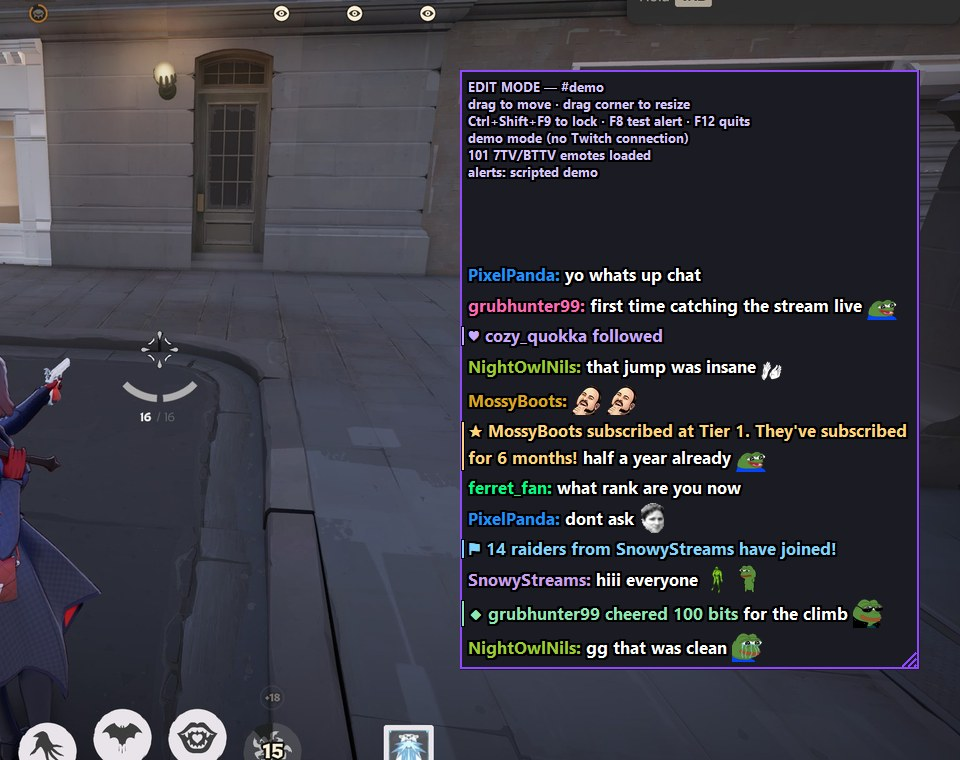
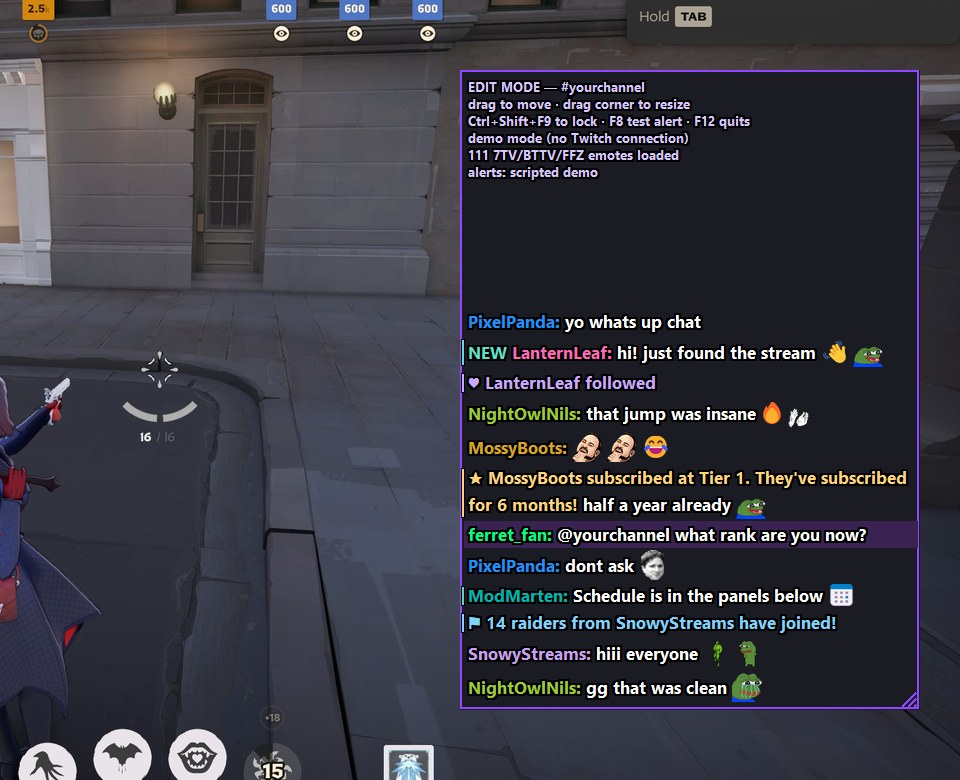
Show mod announcements, color emoji, and highlight first chatters and mentions
- /announce messages were dropped. They arrive as USERNOTICE, and now show
  as normal messages with an accent bar in the announcement's color.
- Emoji are drawn in color from the Windows emoji font. Combined emoji
  (families, flags) fall back to Tk's white glyphs, since Pillow can't
  shape them without raqm. This also removes the old "□" replacement,
  which Tk 8.6.15 doesn't need.
- A NEW label and accent bar mark someone's first message in the channel.
- A tinted box marks messages containing the channel name, or any word in
  the new `mention_words` setting.

Each feature has its own setting in config.json.

diff --git a/overlay.py b/overlay.py
@@ -33,6 +33,7 @@ import time
 import tkinter as tk
 import urllib.request
 from concurrent.futures import ThreadPoolExecutor
+from functools import lru_cache
 from ctypes import wintypes
 from pathlib import Path
 from tkinter import font as tkfont
@@ -60,6 +61,10 @@ DEFAULTS = {
     "hide_users": ["nightbot", "streamelements", "streamlabs", "moobot", "fossabot"],
     "emotes": True,
     "emote_providers": {"7tv": True, "bttv": True, "ffz": True},
+    "emoji": True,             # draw emoji in color (off = plain white emoji)
+    "highlight_first_messages": True,  # mark someone's first ever message in the channel
+    "highlight_mentions": True,        # box messages that mention the channel name
+    "mention_words": [],               # extra words that count as a mention, e.g. a nickname
     "emote_height": 0,         # px; 0 = scale with font size
     "emote_refresh_minutes": 15,
     "alerts": True,
@@ -73,6 +78,15 @@ RUNTIME_KEYS = {"channel", "_demo"}  # lives in .env, never written to config.js
 
 KEY_COLOR = "#010101"  # rendered fully transparent; near-black so text edges blend into a dark outline
 EDIT_BG = "#1b1b24"
+MENTION_BG = "#3a2352"
+FIRST_MSG_COLOR = "#5ce1c6"
+ANNOUNCE_COLORS = {"PRIMARY": "#bf94ff", "BLUE": "#5cb8ff", "GREEN": "#4fe0a0",
+                   "ORANGE": "#ffb347", "PURPLE": "#c38bff"}
+# one emoji: optional variation selector / skin tone, optionally joined (ZWJ) to more; or a flag pair
+EMOJI_RE = re.compile(
+    "[\U0001F1E6-\U0001F1FF]{2}"
+    "|[\u2300-\u23FF\u2600-\u27BF\u2B00-\u2BFF\U0001F000-\U0001FAFF][\uFE0F\U0001F3FB-\U0001F3FF]*"
+    "(?:\u200D[\u2600-\u27BF\U0001F000-\U0001FAFF][\uFE0F\U0001F3FB-\U0001F3FF]*)*")
 TWITCH_DEFAULT_COLORS = [
     "#FF0000", "#0000FF", "#00FF00", "#B22222", "#FF7F50", "#9ACD32", "#FF4500",
     "#2E8B57", "#DAA520", "#D2691E", "#5F9EA0", "#1E90FF", "#FF69B4", "#8A2BE2", "#00FF7F",
@@ -288,6 +302,52 @@ def load_emote_frames(spec: dict, height: int):
     return frames, durations
 
 
+@lru_cache(maxsize=1)
+def emoji_font():
+    from PIL import ImageFont
+    try:
+        return ImageFont.truetype("seguiemj.ttf", 64)  # Segoe UI Emoji, ships with Windows 10/11
+    except OSError:
+        return None
+
+
+def render_emoji(ch: str, height: int):
+    """Color emoji as an RGBA image, or None (then Tk draws it as plain white text)."""
+    from PIL import ImageDraw
+    font = emoji_font()
+    if font is None:
+        return None
+    im = Image.new("RGBA", (160, 110))
+    ImageDraw.Draw(im).text((8, 8), ch, font=font, embedded_color=True)
+    box = im.getbbox()
+    if not box:
+        return None
+    im = im.crop(box)
+    im = im.resize((max(1, round(im.width * height / im.height)), height), Image.LANCZOS)
+    padded = Image.new("RGBA", (im.width + 4, height))  # tight crop would touch neighbouring words
+    padded.paste(im, (2, 0))
+    return padded
+
+
+def split_emoji(word: str):
+    """'lol😂😂' -> ['lol', <emoji spec>, <emoji spec>]. Joined emoji and flags stay text:
+    Pillow can't shape those here, but Tk draws them fine in white."""
+    parts, pos = [], 0
+    for m in EMOJI_RE.finditer(word):
+        cluster = m.group()
+        if "\u200d" in cluster or "\U0001F1E6" <= cluster[0] <= "\U0001F1FF":
+            continue
+        if m.start() > pos:
+            parts.append(word[pos:m.start()])
+        base = "".join(c for c in cluster if c != "\ufe0f" and not "\U0001F3FB" <= c <= "\U0001F3FF")
+        parts.append({"key": "emoji_" + "-".join(f"{ord(c):x}" for c in base), "emoji": base,
+                      "name": cluster, "zero_width": False})
+        pos = m.end()
+    if pos < len(word):
+        parts.append(word[pos:])
+    return parts
+
+
 # --- Overlay -------------------------------------------------------------
 
 def readable(color: str) -> str:
@@ -298,11 +358,6 @@ def readable(color: str) -> str:
         f = 0.55
         r, g, b = (int(c + (255 - c) * f) for c in (r, g, b))
     return f"#{r:02x}{g:02x}{b:02x}"
-
-
-def safe_text(s: str) -> str:
-    # Tk 8.6 cannot always render characters outside the BMP (most emoji)
-    return "".join(c if ord(c) <= 0xFFFF else "□" for c in s)
 
 
 class Overlay:
@@ -340,6 +395,7 @@ class Overlay:
         self.text_h = self.font.metrics("linespace")
         self.space_w = self.font.measure(" ")
         self.emote_h = cfg["emote_height"] or round(self.text_h * 1.3)
+        self.emoji_h = round(self.text_h * 0.95)
         self.canvas = tk.Canvas(self.root, bg=KEY_COLOR, highlightthickness=0, bd=0)
         self.canvas.pack(fill="both", expand=True)
         self.canvas.bind("<Configure>", lambda e: self.render())
@@ -398,7 +454,9 @@ class Overlay:
                     else:
                         changed |= self.add_chat(data)
                 elif kind == "usernotice":
-                    if self.cfg["alerts"]:
+                    if data["tags"].get("msg-id") == "announcement":  # /announce by a mod: a normal message
+                        changed |= self.add_chat(data, announce=data["tags"].get("msg-param-color", "PRIMARY"))
+                    elif self.cfg["alerts"]:
                         changed |= self.add_alert(self.irc_alerts.from_usernotice(data), data)
                 elif kind == "alert":
                     changed |= self.add_alert(data)
@@ -425,7 +483,7 @@ class Overlay:
                     key, frames, durs = data
                     self.emote_pending.discard(key)
                     self.emote_images[key] = {"frames": [ImageTk.PhotoImage(f) for f in frames], "durs": durs,
-                                              "total": sum(durs), "w": frames[0].width}
+                                              "total": sum(durs), "w": frames[0].width, "h": frames[0].height}
                     changed = True
                 elif kind == "emote_fail":
                     self.emote_pending.discard(data)
@@ -453,6 +511,14 @@ class Overlay:
         key = spec["key"]
         if key in self.emote_images or key in self.emote_pending or key in self.emote_failed:
             return
+        if "emoji" in spec:  # drawn locally from the Windows emoji font: instant, no download
+            img = render_emoji(spec["emoji"], self.emoji_h)
+            if img is None:
+                self.emote_failed.add(key)
+            else:
+                self.emote_images[key] = {"frames": [ImageTk.PhotoImage(img)], "durs": [100], "total": 100,
+                                          "w": img.width, "h": img.height}
+            return
         self.emote_pending.add(key)
 
         def work():
@@ -463,9 +529,9 @@ class Overlay:
                 self.events.put(("emote_fail", key))
         self.pool.submit(work)
 
-    def add_chat(self, msg) -> bool:
+    def add_chat(self, msg, announce=None) -> bool:
         tags = msg["tags"]
-        login = msg["prefix"].split("!", 1)[0]
+        login = tags.get("login") or msg["prefix"].split("!", 1)[0]  # USERNOTICE has no user prefix
         text = msg["trailing"] or ""
         if login.lower() in {u.lower() for u in self.cfg["hide_users"]}:
             return False
@@ -490,9 +556,20 @@ class Overlay:
             "color": readable(color), "text": text, "action": action, "time": time.time(),
             "twitch_emotes": self.parse_twitch_emotes(tags.get("emotes", ""), len(text)),
             "tokens": None, "tokens_ver": -1,
+            "first": self.cfg["highlight_first_messages"] and tags.get("first-msg") == "1",
+            "mention": self.cfg["highlight_mentions"] and self.is_mention(login, text),
+            "accent": ANNOUNCE_COLORS.get(announce, ANNOUNCE_COLORS["PRIMARY"]) if announce else
+                      (FIRST_MSG_COLOR if self.cfg["highlight_first_messages"] and tags.get("first-msg") == "1" else None),
         })
         del self.messages[:-self.cfg["max_messages"]]
         return True
+
+    def is_mention(self, login, text) -> bool:
+        channel = self.cfg["channel"].lower()
+        if login.lower() == channel:  # your own messages
+            return False
+        triggers = {channel} | {w.lower().lstrip("@") for w in self.cfg["mention_words"]}
+        return any(w in triggers for w in re.findall(r"\w+", text.lower()))
 
     @staticmethod
     def parse_twitch_emotes(tag: str, text_len: int):
@@ -515,7 +592,7 @@ class Overlay:
         self.messages.append({
             "id": irc_msg["tags"].get("id") if irc_msg else None, "login": "", "name": "",
             "color": color, "text": text, "action": False, "time": time.time(),
-            "alert": f"{icon} {alert['text']}", "ttl": self.cfg["alert_fade_seconds"],
+            "alert": f"{icon} {alert['text']}", "ttl": self.cfg["alert_fade_seconds"], "accent": color,
             "twitch_emotes": self.parse_twitch_emotes(emote_tag, len(text)) if emote_tag else [],
             "tokens": None, "tokens_ver": -1,
         })
@@ -599,6 +676,9 @@ class Overlay:
             tokens = [("text", w, m["color"], i > 0) for i, w in enumerate(m["alert"].split())]
         else:
             tokens = [("text", m["name"] + ("" if m["action"] else ":"), m["color"], False)]
+            if m.get("first"):
+                tokens.insert(0, ("text", "NEW", FIRST_MSG_COLOR, False))
+                tokens[1] = tokens[1][:3] + (True,)
         text = m["text"]
         segments, pos = [], 0   # split text around Twitch-native emote ranges
         for a, b, eid in m["twitch_emotes"]:
@@ -618,6 +698,10 @@ class Overlay:
                 spec = self.third_party.get(word) if self.cfg["emotes"] else None
                 if spec:
                     tokens.append(("emote", spec, True))
+                elif self.cfg["emoji"] and EMOJI_RE.search(word):
+                    for i, part in enumerate(split_emoji(word)):
+                        tokens.append(("emote", part, i == 0) if isinstance(part, dict)
+                                      else ("text", part, body_color, i == 0))
                 else:
                     tokens.append(("text", word, body_color, True))
         m["tokens"], m["tokens_ver"] = tokens, self.emote_version
@@ -637,9 +721,10 @@ class Overlay:
         for tok in self.tokenize(m):
             if tok[0] == "emote":
                 spec = tok[1]
-                img = self.emote_images.get(spec["key"]) if self.cfg["emotes"] else None
-                if img is None and self.cfg["emotes"]:
+                img = self.emote_images.get(spec["key"]) if self.cfg["emotes"] or "emoji" in spec else None
+                if img is None and (self.cfg["emotes"] or "emoji" in spec):
                     self.request_emote(spec)
+                    img = self.emote_images.get(spec["key"])  # emoji render instantly
                 if img is not None:
                     if spec["zero_width"] and prev_emote is not None and prev_emote in cur:
                         cur.append({"t": "emote", "key": spec["key"], "img": img,
@@ -655,10 +740,9 @@ class Overlay:
                     x += sp + img["w"]
                     continue
                 # not loaded (yet) or failed: fall back to its name as text
-                tok = ("text", spec_name(tok[1], m), "#bbbbbb", tok[2])
+                tok = ("text", spec_name(tok[1], m), "#ffffff" if "emoji" in spec else "#bbbbbb", tok[2])
             _, word, color, space_before = tok
             prev_emote = None
-            word = safe_text(word)
             while word:
                 sp = self.space_w if space_before and x else 0
                 w = self.font.measure(word)
@@ -680,7 +764,7 @@ class Overlay:
         newline()
         out, total = [], 0
         for line in lines:
-            lh = max([self.text_h] + [self.emote_h for a in line if a["t"] == "emote"])
+            lh = max([self.text_h] + [a["img"]["h"] for a in line if a["t"] == "emote"])
             out.append((lh, line))
             total += lh
         return out, total
@@ -753,9 +837,11 @@ class Overlay:
             y -= mh
             if y < top_limit:
                 break
+            if m.get("mention"):
+                c.create_rectangle(pad - 4, y - 2, w - 2, y + mh + 2, fill=MENTION_BG, outline="")
             self.draw_message(lines, y, pad)
-            if m.get("alert"):
-                c.create_rectangle(1, y + 2, 4, y + mh - 2, fill=m["color"], outline="#000000")
+            if m.get("accent"):
+                c.create_rectangle(1, y + 2, 4, y + mh - 2, fill=m["accent"], outline="#000000")
             y -= self.cfg["message_gap"]
 
     def animate(self):
@@ -906,7 +992,7 @@ def main():
         return
     if "--demo" in args:  # README screenshots: scripted chat, runs alongside a real copy
         cfg = load_config()
-        cfg.update(channel="demo", alert_sound=False, _demo="alerts" if "--alerts" in args else "chat")
+        cfg.update(channel="yourchannel", alert_sound=False, _demo="alerts" if "--alerts" in args else "chat")
         if "--geometry" in args:  # WxH+X+Y
             w, h, x, y = map(int, re.match(r"(\d+)x(\d+)\+(-?\d+)\+(-?\d+)", args[args.index("--geometry") + 1]).groups())
             cfg.update(width=w, height=h, x=x, y=y)

diff --git a/demo.py b/demo.py
@@ -1,4 +1,4 @@
-"""Scripted chat for README screenshots: fake viewers, real global emotes, every alert type.
+"""Scripted chat for README screenshots: fake viewers, real global emotes, emoji, every highlight and alert type.
 
     python overlay.py --demo            (add --edit to start in edit mode)
 
@@ -11,19 +11,19 @@ import time
 TWITCH = {"Kappa": "25", "LUL": "425618", "<3": "555555584"}
 
 SCRIPT = [
-    # (delay, kind, payload)
+    # (delay, kind, payload); chat payload = (name, color, text[, extra tags])
     (0.2, "chat", ("PixelPanda", "#1E90FF", "yo whats up chat")),
-    (0.3, "chat", ("grubhunter99", "#FF69B4", "first time catching the stream live peepoHappy")),
-    (0.3, "alert", {"kind": "follow", "text": "cozy_quokka followed", "message": ""}),
-    (0.3, "chat", ("NightOwlNils", "#9ACD32", "that jump was insane Clap")),
-    (0.3, "chat", ("MossyBoots", "#DAA520", "LUL LUL")),
+    (0.3, "chat", ("LanternLeaf", "#FF69B4", "hi! just found the stream 👋 peepoHappy", {"first-msg": "1"})),
+    (0.3, "alert", {"kind": "follow", "text": "LanternLeaf followed", "message": ""}),
+    (0.3, "chat", ("NightOwlNils", "#9ACD32", "that jump was insane 🔥 Clap")),
+    (0.3, "chat", ("MossyBoots", "#DAA520", "LUL LUL 😂")),
     (0.3, "alert", {"kind": "sub", "text": "MossyBoots subscribed at Tier 1. They've subscribed for 6 months!",
                     "message": "half a year already peepoHappy"}),
-    (0.3, "chat", ("ferret_fan", "#00FF7F", "what rank are you now")),
+    (0.3, "chat", ("ferret_fan", "#00FF7F", "@yourchannel what rank are you now?")),
     (0.3, "chat", ("PixelPanda", "#1E90FF", "dont ask Kappa")),
+    (0.3, "announce", ("ModMarten", "#00B5AD", "Schedule is in the panels below 📅", "GREEN")),
     (0.3, "alert", {"kind": "raid", "text": "14 raiders from SnowyStreams have joined!", "message": ""}),
     (0.3, "chat", ("SnowyStreams", "#8A2BE2", "hiii everyone AlienDance PepePls")),
-    (0.3, "alert", {"kind": "bits", "text": "grubhunter99 cheered 100 bits", "message": "for the climb EZ"}),
     (0.3, "chat", ("NightOwlNils", "#9ACD32", "gg that was clean FeelsStrongMan")),
 ]
 
@@ -37,7 +37,7 @@ ALL_ALERTS = [  # used for the alerts close-up
 ]
 
 
-def fake_privmsg(name, color, text):
+def fake_privmsg(name, color, text, extra=None):
     """Build the same dict parse_irc() returns, with Twitch emote positions filled in."""
     ranges, pos = {}, 0
     for word in text.split(" "):
@@ -45,7 +45,7 @@ def fake_privmsg(name, color, text):
             ranges.setdefault(TWITCH[word], []).append(f"{pos}-{pos + len(word) - 1}")
         pos += len(word) + 1
     tags = {"display-name": name, "color": color, "id": f"demo-{time.monotonic_ns()}",
-            "emotes": "/".join(f"{eid}:{','.join(r)}" for eid, r in ranges.items())}
+            "emotes": "/".join(f"{eid}:{','.join(r)}" for eid, r in ranges.items()), **(extra or {})}
     login = name.lower()
     return {"tags": tags, "prefix": f"{login}!{login}@{login}.tmi.twitch.tv", "cmd": "PRIVMSG",
             "params": ["#demo"], "trailing": text}
@@ -63,5 +63,13 @@ def demo_thread(events, only_alerts=False):
         return
     for delay, kind, payload in SCRIPT:
         time.sleep(delay)
-        events.put(("chat", fake_privmsg(*payload)) if kind == "chat" else ("alert", payload))
+        if kind == "chat":
+            events.put(("chat", fake_privmsg(*payload)))
+        elif kind == "announce":  # arrives as a USERNOTICE, like a real /announce
+            name, color, text, ann_color = payload
+            msg = fake_privmsg(name, color, text, {"msg-id": "announcement", "msg-param-color": ann_color,
+                                                   "login": name.lower()})
+            events.put(("usernotice", dict(msg, cmd="USERNOTICE", prefix="tmi.twitch.tv")))
+        else:
+            events.put(("alert", payload))
 

diff --git a/README.md b/README.md
@@ -5,7 +5,8 @@ A small, see-through Twitch chat window that sits **on top of your games** witho
 ![Chat overlay on top of a game, with emotes and alerts](docs/overlay.jpg)
 
 - Chat with name colors and a black outline, so it stays readable on any background
-- **Twitch, 7TV, BTTV and FrankerFaceZ emotes**, including animated ones
+- **Twitch, 7TV, BTTV and FrankerFaceZ emotes**, including animated ones, plus color emoji
+- Highlights **first-time chatters** (a NEW label) and **messages that mention you** (a tinted box), and shows mod **announcements**
 - Quiet **alerts** for follows, subs, gift subs, raids, bits and channel points: one colored line and a soft chime
 - Messages that mods delete, or from users they ban or time out, disappear from the overlay too
 - Hides `!commands` and common bots (Nightbot, StreamElements, …)
@@ -67,6 +68,10 @@ This file is created on first run. It's also where the overlay saves its positio
 | `show_badges` | true | ★ broadcaster, ⚔ mod, ♦ VIP in front of names |
 | `emotes` | true | Show emotes as images |
 | `emote_providers` | all true | Turn single emote services on or off: `7tv`, `bttv`, `ffz` |
+| `emoji` | true | Color emoji (false = plain white ones) |
+| `highlight_first_messages` | true | NEW label on someone's first message in your channel |
+| `highlight_mentions` | true | Tinted box behind messages that contain your channel name |
+| `mention_words` | [] | Extra words that count as a mention, for example `["dan", "danny"]` |
 | `emote_height` | 0 | Emote size in pixels (0 = match the text) |
 | `alerts` | true | Turn all alerts on or off |
 | `alert_types` | all true | Turn single types on or off: `follow`, `sub`, `gift`, `raid`, `bits`, `redeem` |
